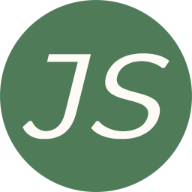
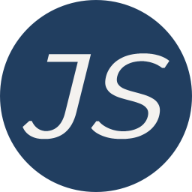
update colors

diff --git a/src/styles/global.css b/src/styles/global.css
@@ -40,6 +40,8 @@
 @theme {
   --font-sans: "BananaGrotesk", "sans-serif";
   --font-serif: "Garamond", "serif";
-  --color-primary: #4f7b58;
-  --color-secondary: #fefbf6;
+  --color-primary: #213e60;
+  --color-secondary: #f4f2ef;
+  --color-tertiary: #94b6ef;
+  --color-accent: #e68c3a;
 }
